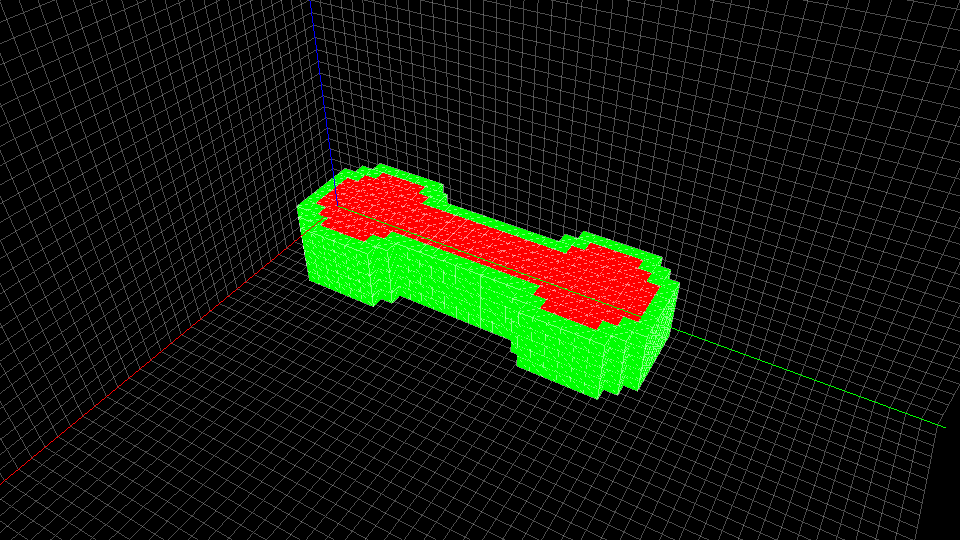
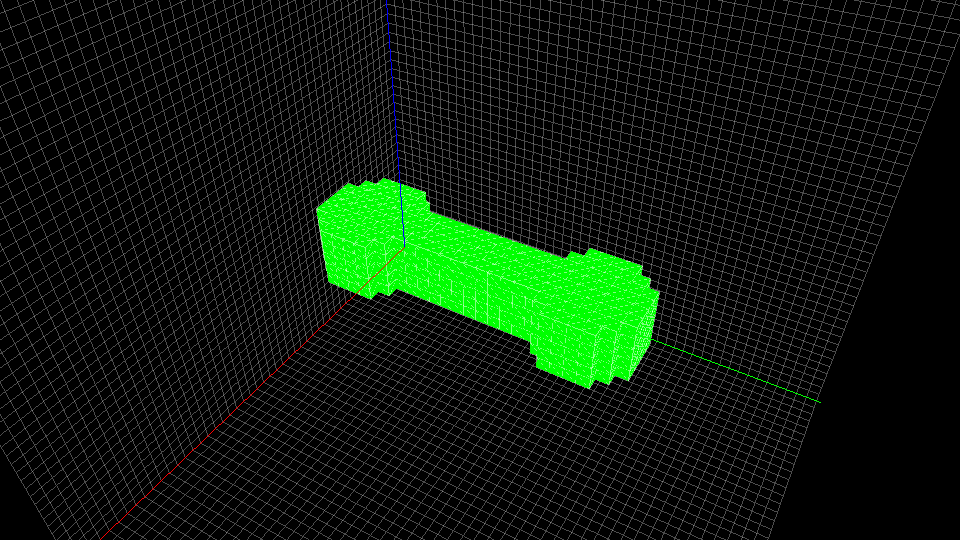
Added Gaussian blurring
- Added blur function (uses 3x3x3 kernel)
- Dilate and Erode are now based on blur function
- Added support for controlling rendered opacity

Changed region(s): [[0.0, 0.0, 1.0, 1.0]]

diff --git a/model_tools.py b/model_tools.py
@@ -62,33 +62,41 @@ def nor(base_model, model_2):
     return model_A
 
 # Dilate, erode, and shell #########################################################
-def dilate(base_model, radius, output_material):
+def blur(base_model, threshold, output_material):
     # Initialize output array
-    new_model = np.copy(base_model)
+    new_model = np.zeros_like(base_model).astype(float)
+    base_model_ones = np.copy(base_model)
+    base_model_ones[base_model_ones != 0] = 1
 
-    ones = np.array([[[0, 0, 0], [0, 1, 0], [0, 0, 0]],
-                     [[0, 1, 0], [1, 1, 1], [0, 1, 0]],
-                     [[0, 0, 0], [0, 1, 0], [0, 0, 0]]])
+    kernel = np.array([[[1.0, 2.0, 1.0], [2.0, 4.0, 2.0], [1.0, 2.0, 1.0]],
+                       [[2.0, 4.0, 2.0], [4.0, 8.0, 4.0], [2.0, 4.0, 2.0]],
+                       [[1.0, 2.0, 1.0], [2.0, 4.0, 2.0], [1.0, 2.0, 1.0]]]) * (1.0/64.0)
 
     x_len = len(base_model[0, 0, :])
     y_len = len(base_model[:, 0, 0])
     z_len = len(base_model[0, :, 0])
 
+    # Loop through model data
+    for x in range(1, x_len-1):
+        for y in range(1, y_len-1):
+            for z in range(1, z_len-1):
+                new_model[y, z, x] = np.sum(np.multiply(base_model_ones[y-1:y+2, z-1:z+2, x-1:x+2], kernel))
+
+    if threshold != 0: # Input zero for no threshold effect
+        new_model[new_model >= threshold] = 1
+        new_model[new_model < threshold] = 0
+        new_model = new_model.astype(int)
+
+    new_model[new_model != 0] = (new_model[new_model != 0] * 10) + output_material - 10
+
+    return new_model
+
+def dilate(base_model, radius, output_material):
+    # Initialize output array
+    new_model = np.copy(base_model)
+
     for i in range(radius):
-        new_voxels = np.zeros_like(base_model)
-
-        # Loop through model data
-        for x in range(1, x_len-1):
-            for y in range(1, y_len-1):
-                for z in range(1, z_len-1):
-                    # If voxel is not empty
-                    if new_model[y, z, x] != 0:
-                        new_voxels[y-1:y+2, z-1:z+2, x-1:x+2] = new_voxels[y-1:y+2, z-1:z+2, x-1:x+2] + ones
-
-        new_model = new_model+new_voxels
-
-    new_model[new_model != 0] = 1
-    new_model = new_model*output_material
+        new_model = blur(new_model, 0.18, output_material)
 
     return new_model
 
@@ -96,29 +104,8 @@ def erode(base_model, radius, output_material):
     # Initialize output array
     new_model = np.copy(base_model)
 
-    ones = np.array([[[0, 0, 0], [0, 1, 0], [0, 0, 0]],
-                     [[0, 1, 0], [1, 1, 1], [0, 1, 0]],
-                     [[0, 0, 0], [0, 1, 0], [0, 0, 0]]])
-
-    x_len = len(base_model[0, 0, :])
-    y_len = len(base_model[:, 0, 0])
-    z_len = len(base_model[0, :, 0])
-
     for i in range(radius):
-        new_voxels = np.zeros_like(base_model)
-
-        # Loop through model data
-        for x in range(1, x_len-1):
-            for y in range(1, y_len-1):
-                for z in range(1, z_len-1):
-                    # If voxel is empty
-                    if new_model[y, z, x] == 0:
-                        new_voxels[y-1:y+2, z-1:z+2, x-1:x+2] = new_voxels[y-1:y+2, z-1:z+2, x-1:x+2] + ones
-
-        new_model = difference(new_model, new_voxels)
-
-    new_model[new_model != 0] = 1
-    new_model = new_model*output_material
+        new_model = blur(new_model, 0.82, output_material)
 
     return new_model
 

diff --git a/mesh_tools.py b/mesh_tools.py
@@ -69,17 +69,21 @@ def create_from_model(input_model):
     for x in range(x_len):
         for y in range(y_len):
             for z in range(z_len):
+                color_index = input_model[y, z, x]
+
                 # If voxel is not empty
-                if input_model[y, z, x] != 0:
+                if color_index != 0:
                     # Set color based on material
-                    if input_model[y, z, x] == 236:  # Blue
-                        voxel_color = [0, 0, 1, 1]
-                    elif input_model[y, z, x] == 217:  # Red
-                        voxel_color = [1, 0, 0, 1]
-                    elif input_model[y, z, x] == 226:  # Green
-                        voxel_color = [0, 1, 0, 1]
+                    if color_index <= 207: # Yellow - default if material not recognized
+                        voxel_color = [1, 1, 0, 0.2]
+                    elif color_index <= 217:  # Red
+                        voxel_color = [1, 0, 0, (color_index-207)/10.0]
+                    elif color_index <= 227:  # Green
+                        voxel_color = [0, 1, 0, (color_index-217)/10.0]
+                    elif color_index <= 237:  # Blue
+                        voxel_color = [0, 0, 1, (color_index-227)/10.0]
                     else: # Yellow - default if material not recognized
-                        voxel_color = [1, 1, 0, 1]
+                        voxel_color = [1, 1, 0, 0.2]
 
                     # Add voxel to mesh item arrays
                     verts_indices = [0, 0, 0, 0, 0, 0, 0, 0]

diff --git a/Shell-Demo/blur.py b/Shell-Demo/blur.py
@@ -16,9 +16,9 @@ if __name__=='__main__':
     # Import model
     joint1 = model.import_vox('joint5lw.vox')
 
-    # Isolate flexible components and dilate
+    # Isolate flexible components and blur
     flexComponents = model.isolate_material(joint1, 217)
-    model1 = model.dilate(flexComponents, 3, 217)
+    model1 = model.blur(flexComponents, 0, 217)
 
     # Initialize application 1
     app1, w1 = plot.prep()
@@ -34,27 +34,7 @@ if __name__=='__main__':
     plot.show(w1, joint1)
 
     # Save screenshot of plot 1
-    #w1.paintGL()
-    #w1.grabFrameBuffer().save('dilate-fig1.png')
-
-    # Erode
-    model2 = model.erode(flexComponents, 2, 217)
-
-    # Initialize application 2
-    w2 = plot.add_widget()
-
-    # Convert model to mesh data
-    v, vc, t = mesh.create_from_model(model2)
-
-    # Create mesh item and add to plot
-    mi = plot.make_mi(v, t, vc, drawEdges=True)
-    w2.addItem(mi)
-
-    # Show plot 2
-    plot.show(w2, flexComponents)
-
-    # Save screenshot of plot 2
-    #w2.paintGL()
-    #w2.grabFrameBuffer().save('erode-fig1.png')
+    # w1.paintGL()
+    # w1.grabFrameBuffer().save('blur-fig1.png')
 
     app1.exec_()

diff --git a/README.md b/README.md
@@ -45,9 +45,8 @@ Demonstration of boolean functions.
 <img width="300" src="https://github.com/Team-Automata/Multi-Material-Manufacturing-Process-Planning-Tools/blob/master/Boolean-Functions-Demo/voxel-tools-bool-fig6.png">
 
 ## Shell Demo
-Demonstration of functions for generating shells.
+Demonstrations of function for generating shells, blur function, and dilate/erode functions.
 
-<img width="600" src="https://github.com/Team-Automata/Multi-Material-Manufacturing-Process-Planning-Tools/blob/master/Shell-Demo/shell-fig2.png">
 
 ## .vox File Generation
 I have been using [MagicaVoxel](https://ephtracy.github.io) to generate voxel files for testing. Files should be created using the "export" function rather than the "save" function. The [py-vox-io](https://github.com/gromgull/py-vox-io) library allows the .vox files to be imported into Python as NumPy arrays.
